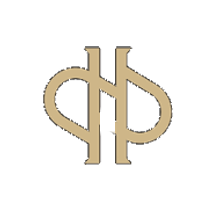
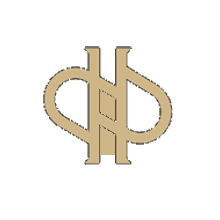
Fix H monogram crossbar visibility, redesign mobile Visit section and footer
The H crossbar was too thin to survive downscaling to nav/favicon sizes,
reading as two disconnected verticals - thickened it at the source in both
monogram.png and logo-mark.png. Redesigned the mobile hours/location panel
into one unified card with a today-highlighted hours row, a custom-framed
map, and staggered reveal. Rebuilt the footer with social icons and a
copyright line for a more considered, minimalistic layout.

Changed region(s): [[0.4364, 0.4091, 0.5455, 0.7091]]

diff --git a/assets/css/styles.css b/assets/css/styles.css
@@ -614,6 +614,16 @@ a{ color: inherit; text-decoration: none; }
 .hours-list > div:last-child{ border-bottom: none; }
 .hours-list dt{ color: rgba(244,236,219,0.6); font-weight: 400; }
 .hours-list dd{ margin: 0; font-family: var(--font-display); font-size: 1.1rem; }
+.hours-list > div.is-today{
+  position: relative;
+  background: rgba(201,160,99,0.1);
+}
+.hours-list > div.is-today::before{
+  content: ''; position: absolute; left: -0.5rem; top: 0.45rem; bottom: 0.45rem; width: 3px;
+  border-radius: 3px; background: var(--gold);
+}
+.hours-list > div.is-today dt{ color: var(--gold-soft); font-weight: 600; }
+.hours-list > div.is-today dd{ color: var(--gold-soft); }
 .visit-address{ font-size: 1rem; color: rgba(244,236,219,0.78); max-width: 34ch; margin: 0 0 1.5rem; }
 
 .visit-col-find{ display: flex; flex-direction: column; gap: 1.75rem; }
@@ -631,22 +641,58 @@ a{ color: inherit; text-decoration: none; }
   transition: transform 0.35s ease, filter 0.35s ease;
 }
 .map-static:hover img{ transform: scale(1.03); filter: sepia(0.3) saturate(0.85) brightness(0.95) hue-rotate(-6deg); }
+.map-static::before, .map-static::after{
+  content: ''; position: absolute; z-index: 2; pointer-events: none;
+  width: 22px; height: 22px;
+}
+.map-static::before{ top: 10px; left: 10px; border-top: 2px solid rgba(228,200,143,0.85); border-left: 2px solid rgba(228,200,143,0.85); }
+.map-static::after{ bottom: 10px; right: 10px; border-bottom: 2px solid rgba(228,200,143,0.85); border-right: 2px solid rgba(228,200,143,0.85); }
+.map-static-tag{
+  position: absolute; top: 10px; right: 10px; z-index: 2;
+  background: rgba(23,17,13,0.72); backdrop-filter: blur(4px); -webkit-backdrop-filter: blur(4px);
+  color: var(--gold-soft); font-family: var(--font-ui); font-size: 0.68rem;
+  letter-spacing: 0.12em; text-transform: uppercase;
+  padding: 0.4em 0.8em; border-radius: 999px; border: 1px solid rgba(201,160,99,0.35);
+}
 
-/* below the stacking breakpoint, the two cards read as one unified
-   panel: no gap between them, shared border, only the outer corners
-   rounded, with a hairline divider standing in for the seam */
+/* below the stacking breakpoint, the two panels merge into one
+   genuine unified card — a single background/border/shadow on the
+   grid itself, with an ornamental diamond divider (echoing the
+   monogram's crossbar accent) marking the seam, not a doubled card */
 @media (max-width: 760px){
-  .visit-grid{ grid-template-columns: 1fr; gap: 0; }
   .visit-mark{ width: 70vw; opacity: 0.04; }
-  .visit-col{
-    border-radius: 0; border-bottom: none;
-    padding: 1.9rem 1.75rem;
-    box-shadow: none;
+
+  .live-status{
+    display: flex; width: 100%; justify-content: center; text-align: center;
+    padding: 0.85em 1.25em; border-radius: 14px; font-size: 0.92rem;
   }
-  .visit-col:first-child{ border-radius: 20px 20px 0 0; }
-  .visit-col:last-child{
-    border-radius: 0 0 20px 20px; border-bottom: 1px solid rgba(201,160,99,0.32);
-    box-shadow: 0 30px 60px -32px rgba(0,0,0,0.75);
+
+  .visit-grid{
+    grid-template-columns: 1fr; gap: 0;
+    border-radius: 22px;
+    background: linear-gradient(165deg, rgba(61,46,32,0.9), rgba(36,26,19,0.94));
+    border: 1px solid rgba(201,160,99,0.32);
+    backdrop-filter: blur(20px) saturate(1.4);
+    -webkit-backdrop-filter: blur(20px) saturate(1.4);
+    box-shadow: 0 30px 60px -32px rgba(0,0,0,0.8), inset 0 1px 0 rgba(255,255,255,0.07);
+    overflow: hidden;
+  }
+  .visit-col{
+    background: none; border: none; border-radius: 0;
+    padding: 1.9rem 1.75rem;
+    box-shadow: none; backdrop-filter: none; -webkit-backdrop-filter: none;
+    opacity: 0; transform: translateY(14px);
+    transition: opacity 0.6s ease, transform 0.6s ease;
+  }
+  .visit-col::before{ display: none; }
+  .visit.is-visible .visit-col{ opacity: 1; transform: translateY(0); }
+  .visit.is-visible .visit-col:last-child{ transition-delay: 0.12s; }
+
+  .visit-col:first-child{ border-bottom: 1px solid rgba(201,160,99,0.25); }
+  .visit-col:first-child::after{
+    content: ''; position: absolute; left: 50%; bottom: -6px; z-index: 2;
+    width: 11px; height: 11px; transform: translateX(-50%) rotate(45deg);
+    background: var(--panel-2); border: 1px solid rgba(201,160,99,0.5);
   }
 }
 @media (max-width: 480px){
@@ -672,7 +718,11 @@ a{ color: inherit; text-decoration: none; }
 .reserve .hero-actions{ margin: 0 auto; }
 
 /* ================= Footer ================= */
-.site-footer{ background: var(--panel-2); border-top: var(--edge); padding: 2.5rem 0; }
+.site-footer{ position: relative; background: var(--panel-2); padding: 2.5rem 0; }
+.site-footer::before{
+  content: ''; position: absolute; top: 0; left: 0; right: 0; height: 1px;
+  background: linear-gradient(90deg, transparent, rgba(201,160,99,0.5) 50%, transparent);
+}
 .footer-inner{
   display: flex; align-items: center; justify-content: space-between; flex-wrap: wrap; gap: 1.5rem;
 }
@@ -682,11 +732,30 @@ a{ color: inherit; text-decoration: none; }
 .footer-links a{ font-size: 0.85rem; color: rgba(244,236,219,0.7); display: inline-flex; align-items: center; min-height: 44px; }
 .footer-links a:hover{ color: var(--azure); }
 
+.footer-social{ display: flex; gap: 0.6rem; }
+.footer-social a{
+  display: inline-flex; align-items: center; justify-content: center;
+  width: 38px; height: 38px; border-radius: 50%; flex: none;
+  border: 1px solid rgba(201,160,99,0.28); color: rgba(244,236,219,0.75);
+  transition: border-color 0.2s ease, color 0.2s ease, background-color 0.2s ease, transform 0.2s ease;
+}
+.footer-social a:hover{ border-color: var(--azure); color: var(--azure); background: rgba(53,180,238,0.08); transform: translateY(-2px); }
+.footer-social svg{ width: 17px; height: 17px; fill: none; stroke: currentColor; stroke-width: 1.6; stroke-linecap: round; stroke-linejoin: round; }
+
+.footer-copy{
+  width: 100%; margin: 1.5rem 0 0; padding-top: 1.35rem;
+  border-top: 1px solid rgba(201,160,99,0.12);
+  font-size: 0.75rem; letter-spacing: 0.02em; color: rgba(244,236,219,0.4);
+  text-align: center;
+}
+
 @media (max-width: 640px){
-  .site-footer{ padding: 1.75rem 0; }
-  .footer-inner{ gap: 0.25rem; }
-  .footer-links{ gap: 0 1.25rem; }
-  .footer-links a{ min-height: 36px; }
+  .site-footer{ padding: 2.25rem 0 1.75rem; }
+  .footer-inner{ flex-direction: column; text-align: center; gap: 1.1rem; }
+  .footer-links{ justify-content: center; gap: 0.4rem 1.1rem; }
+  .footer-links a{ min-height: 32px; font-size: 0.82rem; }
+  .footer-social{ justify-content: center; }
+  .footer-copy{ margin-top: 0.9rem; padding-top: 1.1rem; font-size: 0.7rem; }
 }
 
 /* ================= Price list page ================= */

diff --git a/index.html b/index.html
@@ -162,11 +162,11 @@
             <h3 class="visit-col-title">Radno vrijeme</h3>
           </div>
           <dl class="hours-list">
-            <div><dt>Pon</dt><dd>Zatvoreno</dd></div>
-            <div><dt>Uto – Sri</dt><dd>7 – 23 h</dd></div>
-            <div><dt>Čet – Pet</dt><dd>7 – 0 h</dd></div>
-            <div><dt>Subota</dt><dd>8 – 0 h</dd></div>
-            <div><dt>Nedjelja</dt><dd>8 – 23 h</dd></div>
+            <div data-days="1"><dt>Pon</dt><dd>Zatvoreno</dd></div>
+            <div data-days="2,3"><dt>Uto – Sri</dt><dd>7 – 23 h</dd></div>
+            <div data-days="4,5"><dt>Čet – Pet</dt><dd>7 – 0 h</dd></div>
+            <div data-days="6"><dt>Subota</dt><dd>8 – 0 h</dd></div>
+            <div data-days="0"><dt>Nedjelja</dt><dd>8 – 23 h</dd></div>
           </dl>
         </div>
         <div class="visit-col visit-col-find">
@@ -184,6 +184,7 @@
           </div>
           <a class="map-static" href="https://www.google.com/maps/search/?api=1&query=Hedonist+bar+Osijek+Vukovarska+cesta+31" target="_blank" rel="noopener" aria-label="Otvori lokaciju Hedonist bara na Google karti">
             <img src="assets/images/map-location.webp" alt="Karta s lokacijom Hedonist bara, Vukovarska cesta 31, Osijek" loading="lazy">
+            <span class="map-static-tag" aria-hidden="true">Osijek</span>
           </a>
         </div>
       </div>
@@ -215,9 +216,16 @@
       <a href="#cjenik">Cjenik</a>
       <a href="#atmosfera">Atmosfera</a>
       <a href="#lokacija">Radno vrijeme i lokacija</a>
-      <a href="https://www.instagram.com/hedonistbarosijek/" target="_blank" rel="noopener">Instagram</a>
-      <a href="https://www.facebook.com/HedonistBarOsijek/" target="_blank" rel="noopener">Facebook</a>
     </nav>
+    <div class="footer-social">
+      <a href="https://www.instagram.com/hedonistbarosijek/" target="_blank" rel="noopener" aria-label="Hedonist Bar na Instagramu">
+        <svg viewBox="0 0 24 24" aria-hidden="true"><rect x="3.5" y="3.5" width="17" height="17" rx="5"/><circle cx="12" cy="12" r="3.6"/><circle cx="16.6" cy="7.4" r="0.9" fill="currentColor" stroke="none"/></svg>
+      </a>
+      <a href="https://www.facebook.com/HedonistBarOsijek/" target="_blank" rel="noopener" aria-label="Hedonist Bar na Facebooku">
+        <svg viewBox="0 0 24 24" aria-hidden="true"><path d="M14 21v-7h2.5l.5-3H14V9a1.5 1.5 0 0 1 1.5-1.5H17V4.8c-.5-.07-1.5-.15-2.6-.15C11.9 4.65 10 6.3 10 9.2V11H7.5v3H10v7"/></svg>
+      </a>
+    </div>
+    <p class="footer-copy">© 2026 Hedonist Bar · Osijek</p>
   </div>
 </footer>
 

diff --git a/cjenik.html b/cjenik.html
@@ -684,9 +684,16 @@
       <a href="index.html#cjenik">Cjenik</a>
       <a href="index.html#atmosfera">Atmosfera</a>
       <a href="index.html#lokacija">Radno vrijeme i lokacija</a>
-      <a href="https://www.instagram.com/hedonistbarosijek/" target="_blank" rel="noopener">Instagram</a>
-      <a href="https://www.facebook.com/HedonistBarOsijek/" target="_blank" rel="noopener">Facebook</a>
     </nav>
+    <div class="footer-social">
+      <a href="https://www.instagram.com/hedonistbarosijek/" target="_blank" rel="noopener" aria-label="Hedonist Bar na Instagramu">
+        <svg viewBox="0 0 24 24" aria-hidden="true"><rect x="3.5" y="3.5" width="17" height="17" rx="5"/><circle cx="12" cy="12" r="3.6"/><circle cx="16.6" cy="7.4" r="0.9" fill="currentColor" stroke="none"/></svg>
+      </a>
+      <a href="https://www.facebook.com/HedonistBarOsijek/" target="_blank" rel="noopener" aria-label="Hedonist Bar na Facebooku">
+        <svg viewBox="0 0 24 24" aria-hidden="true"><path d="M14 21v-7h2.5l.5-3H14V9a1.5 1.5 0 0 1 1.5-1.5H17V4.8c-.5-.07-1.5-.15-2.6-.15C11.9 4.65 10 6.3 10 9.2V11H7.5v3H10v7"/></svg>
+      </a>
+    </div>
+    <p class="footer-copy">© 2026 Hedonist Bar · Osijek</p>
   </div>
 </footer>
 

diff --git a/assets/js/main.js b/assets/js/main.js
@@ -131,6 +131,13 @@
 
     renderStatus();
     setInterval(renderStatus, 60000);
+
+    /* ---- highlight today's row in the hours list ---- */
+    var todayNum = new Date().getDay();
+    document.querySelectorAll('.hours-list > div[data-days]').forEach(function(row){
+      var days = row.getAttribute('data-days').split(',').map(Number);
+      if (days.indexOf(todayNum) !== -1) row.classList.add('is-today');
+    });
   }
 
   document.querySelectorAll('.philosophy, .menu, .daytime, .atmosphere, .visit, .reserve').forEach(function(el){